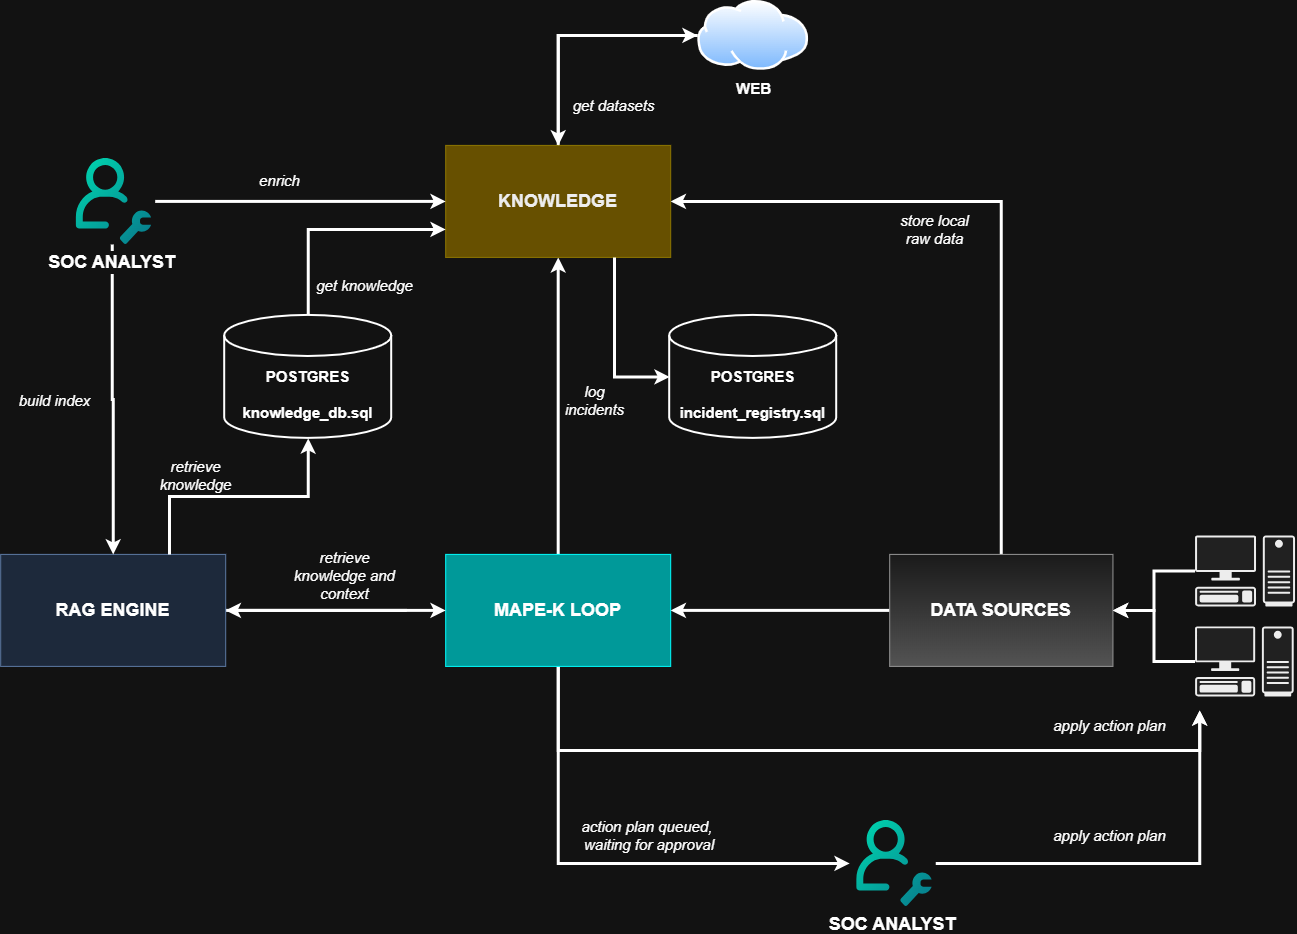
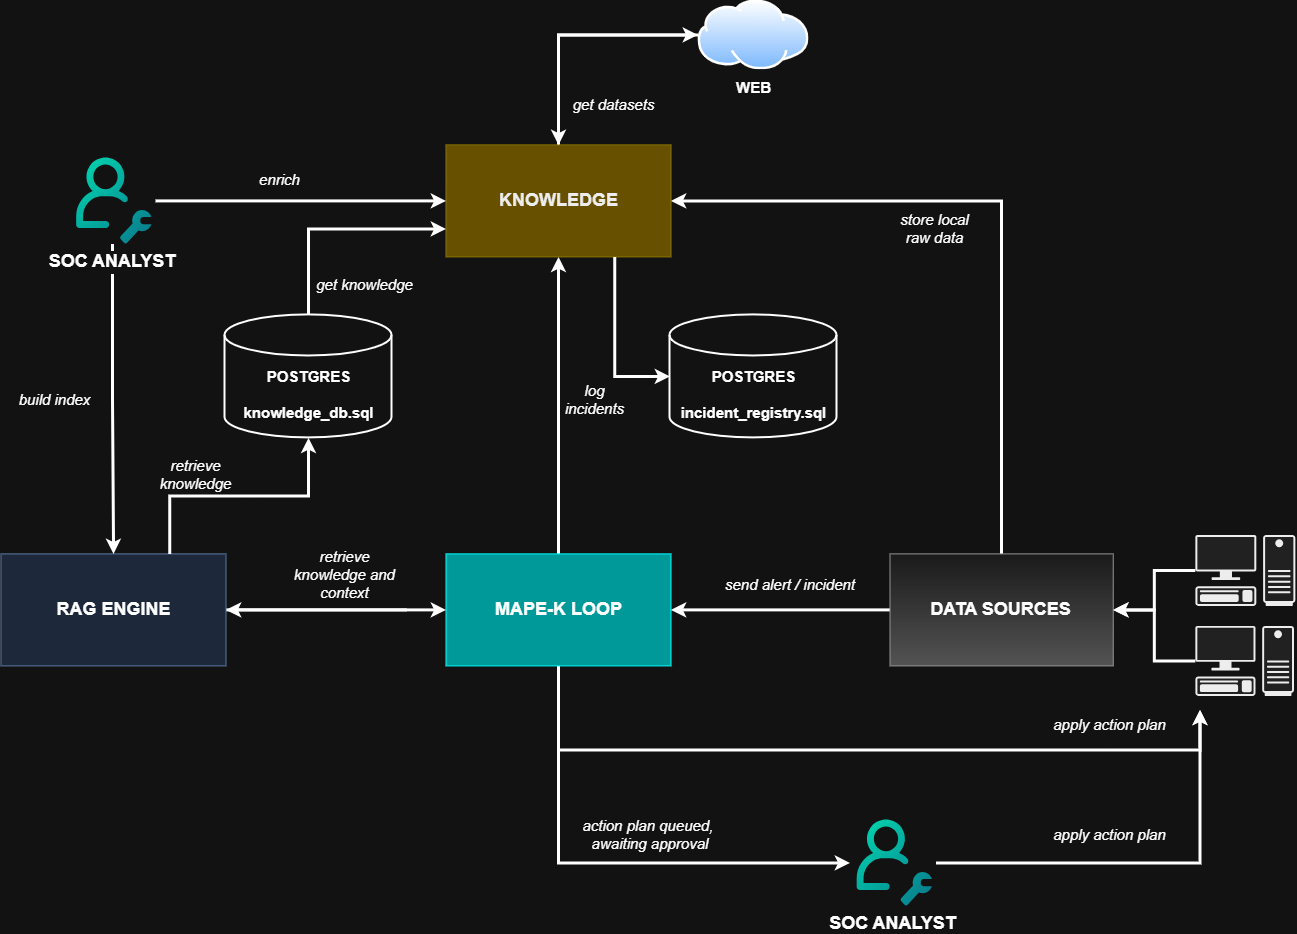
.

diff --git a/MAPE/orchestrator.py b/MAPE/orchestrator.py
@@ -206,15 +206,7 @@ class Orchestrator:
             )
 
         if not is_valid:
-            self._set_phase(
-                incident_id,
-                state,
-                FAILED,
-                details={
-                    "reason": "validation_rejected",
-                },
-            )
-
+            self._set_phase(incident_id, state, FAILED, details={"reason": "validation_rejected"})
             return False, validation_result
 
         self._set_phase(incident_id, state, VALIDATED)
